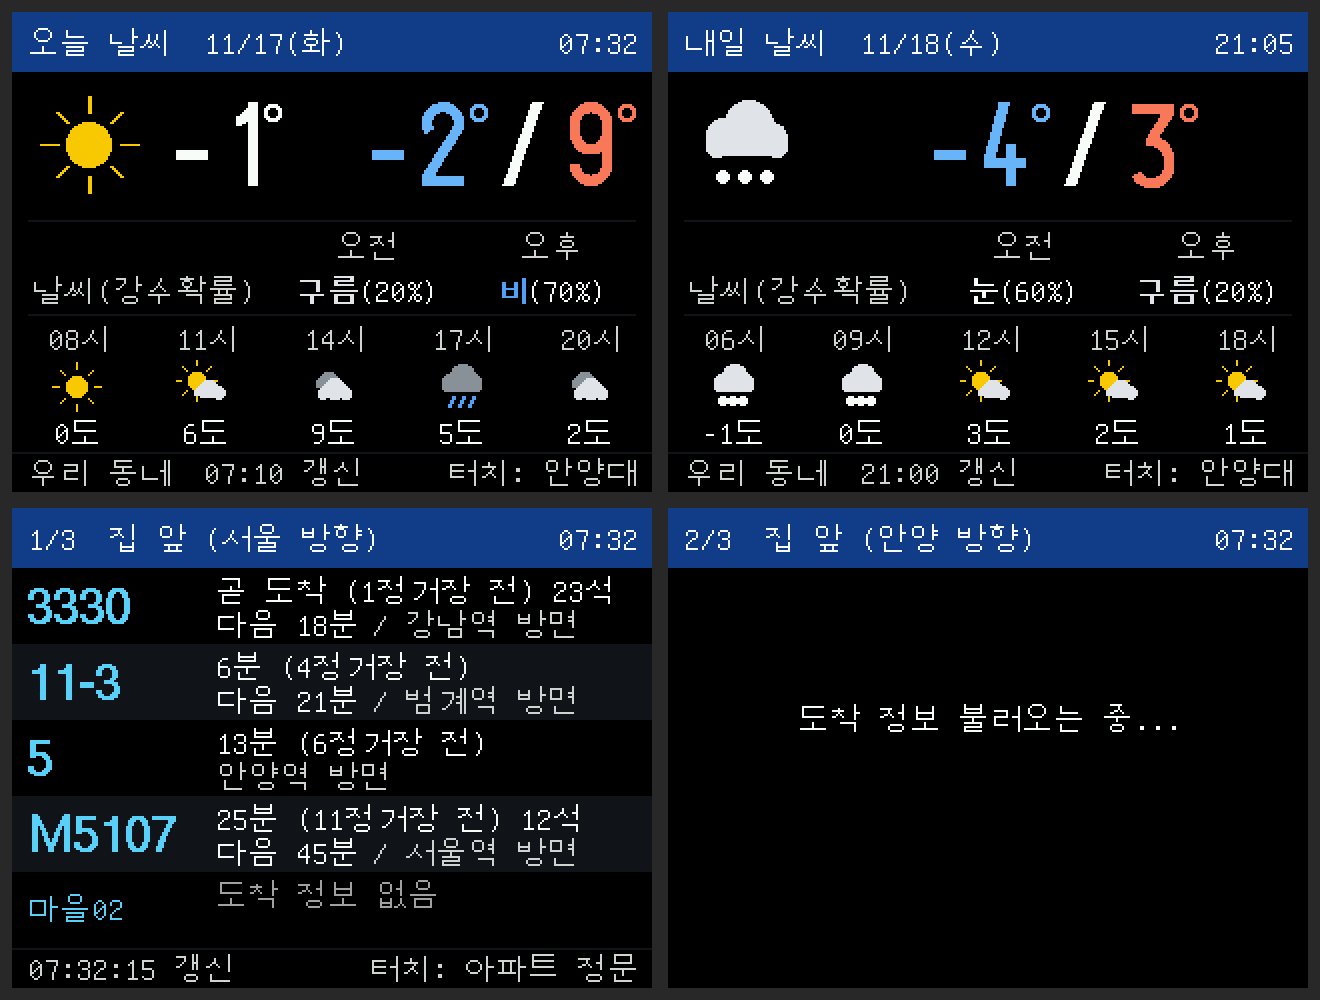
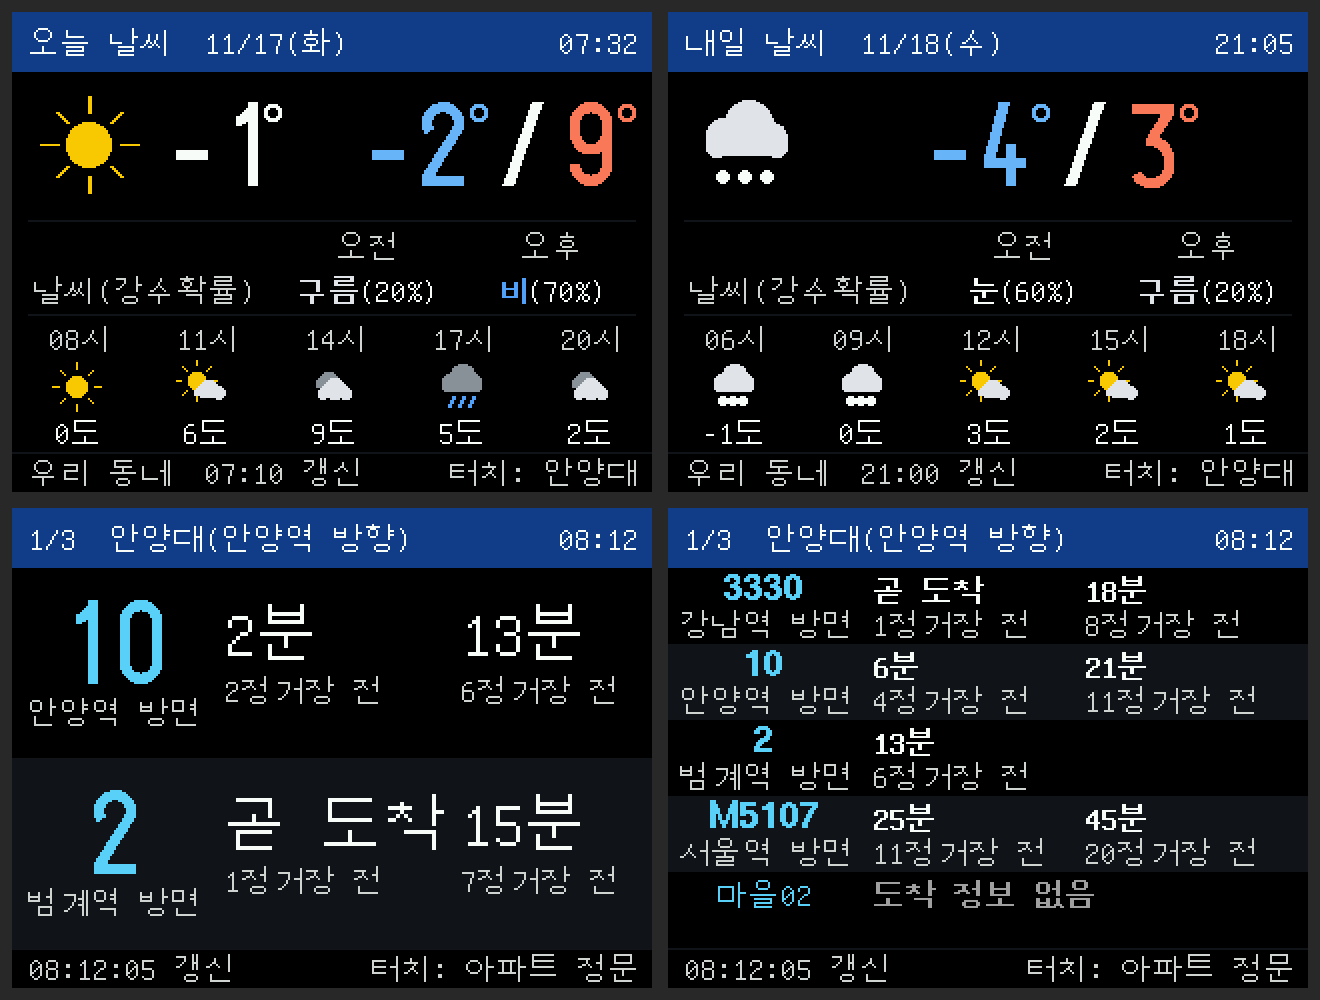
버스 화면: 이번/다음 버스를 옆으로 나란히, 노선 번호 가운데 정렬, 연결 실패 시 다시 시도
- 노선 번호를 왼쪽 칸 가운데에 맞추고 그 아래에 방면을 작게
- '2분  13분' / '2정거장 전  6정거장 전' 처럼 두 버스를 같은 칸 위치에 나란히
- 서버 연결 자체가 실패하면 0.5초 뒤 한 번 더 요청
- 첫 정보를 못 받았으면 5초 뒤 다시 받기

Claude-Session: https://claude.ai/code/session_01JmD3neNDVVxj1jPjcyheg5

diff --git a/esp32-bus-display/BusArrivalDisplay/display.cpp b/esp32-bus-display/BusArrivalDisplay/display.cpp
@@ -288,113 +288,187 @@ static RowLayout layoutFor(int count) {
   return {1, body, true};  // 1대면 화면 전체를 한 줄로
 }
 
-static const int16_t BIG_ROUTE_W = 118;  // 큰 배치에서 왼쪽 노선 번호 칸
-static const int16_t BIG_TEXT_X = BIG_ROUTE_W + 8;
-static const int16_t BIG_TEXT_W = W - BIG_TEXT_X - 6;
+static const int16_t BIG_ROUTE_W = 100;  // 큰 배치에서 왼쪽 노선 번호 칸
+static const int16_t BIG_TEXT_X = BIG_ROUTE_W + 6;
+static const int16_t BIG_TEXT_W = W - BIG_TEXT_X - 4;
 
-static void drawRouteName(int16_t y0, int16_t h, bool big, const char* name) {
-  const int16_t colW = big ? BIG_ROUTE_W : ROUTE_W;
-  if (!isAscii(name)) {
-    // 한글이 들어간 노선 번호 (예: "마을02")
-    if (big && bigWidth(name) <= colW - 8) {
-      drawBig(8, y0 + (h + bigAscent()) / 2, name, C_ROUTE);
-    } else {
-      useFont(FONT_KOREAN);
-      drawClipped(8, y0 + (h + u8f.getFontAscent()) / 2, colW - 8, name, C_ROUTE);
-    }
-    return;
-  }
-  // 영문/숫자 노선 번호: 칸에 들어가는 가장 큰 글꼴
-  // 큰 글꼴부터 한 단계씩 줄여 가며 칸에 맞는 것을 고릅니다.
-  const uint8_t* fonts[] = {FONT_ROUTE_HUGE, FONT_ROUTE_LARGE, FONT_ROUTE_24, FONT_ROUTE_BIG,
-                            FONT_ROUTE_MID};
-  const int count = sizeof(fonts) / sizeof(fonts[0]);
-  int first = !big ? 3 : (h >= 90 ? 0 : 1);
-  for (int i = first; i < count; i++) {
-    useFont(fonts[i]);
-    if (u8f.getUTF8Width(name) <= colW - 8 || i == count - 1) break;
-  }
-  int16_t baseline = y0 + (h + u8f.getFontAscent()) / 2;
-  drawClipped(8, baseline, colW - 8, name, C_ROUTE);
+// 한글 글꼴은 16픽셀 하나뿐이라, 1픽셀 옆에 한 번 더 그려서 굵게 보이게 합니다.
+static void drawBold(int16_t x, int16_t baseline, const char* text, uint16_t color) {
+  drawText(x, baseline, text, color);
+  drawText(x + 1, baseline, text, color);
 }
 
-// "다음 15분" 은 흰색, " / 범계역 방면" 은 회색으로 이어서 씁니다.
-static void drawNextLine(int16_t x, int16_t baseline, int16_t maxW, const char* second,
-                         const char* dest) {
+// 왼쪽 칸: 노선 번호(가운데 정렬)와 그 아래 방면(작게, 회색)
+static void drawRouteName(int16_t y0, int16_t h, bool big, const char* name, const char* dest) {
+  const int16_t colW = big ? BIG_ROUTE_W : ROUTE_W;
+  const int16_t maxW = colW - 6;
+  const bool showDest = dest && dest[0];
+  int16_t nameBase;
+
+  if (!isAscii(name)) {
+    // 한글이 들어간 노선 번호 (예: "마을02")
+    if (big && bigWidth(name) <= maxW) {
+      int16_t w = bigWidth(name);
+      nameBase = showDest ? y0 + (h - 20 + bigAscent()) / 2 : y0 + (h + bigAscent()) / 2;
+      drawBig((colW - w) / 2, nameBase, name, C_ROUTE);
+    } else {
+      useFont(FONT_KOREAN);
+      int16_t w = u8f.getUTF8Width(name);
+      nameBase = big ? (showDest ? y0 + (h - 20 + 14) / 2 : y0 + (h + 14) / 2) : y0 + 17;
+      drawClipped(w < maxW ? (colW - w) / 2 : 3, nameBase, maxW, name, C_ROUTE);
+    }
+  } else {
+    // 영문/숫자 노선 번호: 칸에 들어가는 가장 큰 글꼴
+    // 큰 글꼴부터 한 단계씩 줄여 가며 칸에 맞는 것을 고릅니다.
+    const uint8_t* fonts[] = {FONT_ROUTE_HUGE, FONT_ROUTE_LARGE, FONT_ROUTE_24, FONT_ROUTE_BIG,
+                              FONT_ROUTE_MID};
+    const int count = sizeof(fonts) / sizeof(fonts[0]);
+    // 작은 배치(4대 이상)에서 방면까지 쓰면 노선 번호는 한 단계 작게
+    int first = !big ? (showDest ? 4 : 3) : (h >= 90 ? 0 : 1);
+    for (int i = first; i < count; i++) {
+      useFont(fonts[i]);
+      if (u8f.getUTF8Width(name) <= maxW || i == count - 1) break;
+    }
+    int16_t asc = u8f.getFontAscent();
+    if (!big) {
+      nameBase = showDest ? y0 + 16 : y0 + (h + asc) / 2;
+    } else {
+      nameBase = showDest ? y0 + (h - 20 + asc) / 2 : y0 + (h + asc) / 2;
+    }
+    int16_t w = u8f.getUTF8Width(name);
+    drawClipped(w < maxW ? (colW - w) / 2 : 3, nameBase, maxW, name, C_ROUTE);
+  }
+
+  if (showDest) {
+    useFont(FONT_KOREAN);
+    int16_t w = u8f.getUTF8Width(dest);
+    int16_t destBase = big ? nameBase + 20 : y0 + 34;
+    drawClipped(w < maxW ? (colW - w) / 2 : 3, destBase, maxW, dest, C_TEXT2);
+  }
+}
+
+// 버스 한 대의 칸: "2분" / "3정거장 전" / "23석"
+struct ArrivalCell {
+  char time[32];
+  char stops[24];
+  char seats[12];
+  bus::Urgency urgency;
+};
+
+static void makeCell(const bus::Arrival& a, uint32_t ageSec, bool isSecond, ArrivalCell& c) {
+  c.time[0] = c.stops[0] = c.seats[0] = '\0';
+  c.urgency = bus::URGENCY_NONE;
+  // 두 번째 버스 정보가 아예 없으면 칸을 비워 둡니다.
+  if (isSecond && a.sec < 0 && !a.note[0]) return;
+  c.urgency = bus::formatMain(a, ageSec, c.time, sizeof(c.time));
+  if (a.sec >= 0 && a.stops > 0) snprintf(c.stops, sizeof(c.stops), "%d정거장 전", a.stops);
+  if (a.sec >= 0 && a.seats >= 0) snprintf(c.seats, sizeof(c.seats), "%d석", a.seats);
+}
+
+static uint16_t cellColor(const ArrivalCell& c) {
+  // 도착 시간은 흰색. 정보가 없을 때만 회색.
+  return c.urgency == bus::URGENCY_NONE ? C_DIM : C_TEXT;
+}
+
+// 정거장 수 (+ 자리가 남으면 빈자리 수). 칸이 좁으면 "전" 을 뺍니다.
+static void drawStops(int16_t x, int16_t baseline, int16_t maxW, const ArrivalCell& c,
+                      bool withSeats) {
   useFont(FONT_KOREAN);
-  int16_t used = 0;
-  if (second[0]) {
-    drawClipped(x, baseline, maxW, second, C_TEXT);
-    used = u8f.getUTF8Width(second);
+  char buf[48];
+  if (withSeats && c.seats[0]) {
+    snprintf(buf, sizeof(buf), "%s%s%s", c.stops, c.stops[0] ? " " : "", c.seats);
+    if (u8f.getUTF8Width(buf) <= maxW) {
+      drawText(x, baseline, buf, C_TEXT2);
+      return;
+    }
   }
-  if (dest[0] && used < maxW - 24) {
-    char buf[64];
-    snprintf(buf, sizeof(buf), "%s%s", second[0] ? " / " : "", dest);
-    drawClipped(x + used, baseline, maxW - used, buf, C_TEXT2);
+  if (!c.stops[0]) return;
+  snprintf(buf, sizeof(buf), "%s", c.stops);
+  if (u8f.getUTF8Width(buf) > maxW) {
+    char* p = strstr(buf, " 전");
+    if (p) *p = '\0';
   }
+  drawClipped(x, baseline, maxW, buf, C_TEXT2);
+}
+
+// 시간 글자를 2배로 쓸 수 있으면 2배, 아니면 보통 크기(굵게). 그린 너비를 돌려줍니다.
+static int16_t drawTime(int16_t x, int16_t baseline, int16_t maxW, const ArrivalCell& c,
+                        bool big) {
+  if (!c.time[0]) return 0;
+  if (big) {
+    int16_t w2 = bigWidth(c.time);
+    if (w2 <= maxW) {
+      drawBig(x, baseline, c.time, cellColor(c));
+      return w2;
+    }
+    baseline -= 8;  // 보통 크기 글자는 2배 글자 높이의 가운데쯤에
+  }
+  useFont(FONT_KOREAN);
+  drawBold(x, baseline, c.time, cellColor(c));
+  return u8f.getUTF8Width(c.time) + 1;
 }
 
 static void drawRow(int index, const RowLayout& lay, const bus::Route* route, uint32_t ageSec) {
-  char mainText[48] = "", detail[48] = "", second[48] = "", first[64] = "";
-  bus::Urgency urgency = bus::URGENCY_NONE;
+  ArrivalCell c0, c1;
   if (route) {
-    if (lay.big) {
-      urgency = bus::formatMain(route->next[0], ageSec, mainText, sizeof(mainText));
-      bus::formatDetail(route->next[0], detail, sizeof(detail));
-    } else {
-      urgency = bus::formatFirst(route->next[0], ageSec, first, sizeof(first));
-    }
-    bus::formatSecond(route->next[1], ageSec, second, sizeof(second));
+    makeCell(route->next[0], ageSec, false, c0);
+    makeCell(route->next[1], ageSec, true, c1);
+  } else {
+    c0.time[0] = c1.time[0] = '\0';
+    c0.stops[0] = c1.stops[0] = c0.seats[0] = c1.seats[0] = '\0';
+    c0.urgency = c1.urgency = bus::URGENCY_NONE;
   }
 
   char key[sizeof(rowCache[0])];
-  snprintf(key, sizeof(key), "%d|%s|%s%s|%s|%s|%d", lay.rows, route ? route->name : "", mainText,
-           first, detail, second, urgency);
+  snprintf(key, sizeof(key), "%d|%.12s|%.20s|%.20s|%.20s|%.20s|%s|%s|%d", lay.rows,
+           route ? route->name : "", c0.time, c1.time, c0.stops, c1.stops, c0.seats, c1.seats,
+           c0.urgency);
   if (!changed(rowCache[index], sizeof(rowCache[index]), key)) return;
 
   const int16_t y0 = HEADER_H + index * lay.h;
   tft.fillRect(0, y0, W, lay.h, (index % 2) ? C_ROW_ALT : C_BG);
   if (!route) return;
 
-  drawRouteName(y0, lay.h, lay.big, route->name);
-  // 도착 시간은 흰색. 정보가 없을 때만 회색.
-  const uint16_t timeColor = urgency == bus::URGENCY_NONE ? C_DIM : C_TEXT;
+  drawRouteName(y0, lay.h, lay.big, route->name, route->dest);
 
+  //  첫 번째 버스      두 번째 버스
+  //  2분               13분
+  //  3정거장 전        6정거장 전
+  const int16_t textX = lay.big ? BIG_TEXT_X : TEXT_X;
+  const int16_t textW = lay.big ? BIG_TEXT_W : TEXT_W;
+  const int16_t right = textX + textW;
+  const int16_t half = textW / 2;
+
+  int16_t timeBase, stopsBase, seatsBase = -1;
   if (!lay.big) {
-    // 4대 이상: 한 줄에 작게
-    useFont(FONT_KOREAN);
-    drawClipped(TEXT_X, y0 + 17, TEXT_W, first, timeColor);
-    drawNextLine(TEXT_X, y0 + 34, TEXT_W, second, route->dest);
-    return;
+    timeBase = y0 + 17;
+    stopsBase = y0 + 34;
+  } else if (lay.h >= 90) {
+    // 2대 또는 1대: 시간 / 정거장 수 / 빈자리 세 줄. 1대면 글자 묶음을 가운데로.
+    const int16_t cy = y0 + (lay.h - 95) / 2;
+    timeBase = cy + 44;
+    stopsBase = cy + 67;
+    seatsBase = cy + 87;
+  } else {
+    // 3대: 시간 / 정거장 수 두 줄
+    timeBase = y0 + 36;
+    stopsBase = y0 + 57;
   }
 
-  // 큰 배치: 도착 시간을 2배 크기로. 줄이 아주 높으면(1대) 글자 묶음을 가운데로.
-  const int16_t cy = lay.h > 95 ? y0 + (lay.h - 95) / 2 : y0;
-  const int16_t mainBase = lay.h >= 90 ? cy + 42 : y0 + 37;
-  int16_t mainW = bigWidth(mainText);
-  if (mainW <= BIG_TEXT_W) {
-    drawBig(BIG_TEXT_X, mainBase, mainText, timeColor);
-  } else {
-    useFont(FONT_KOREAN);
-    mainW = u8f.getUTF8Width(mainText);
-    drawClipped(BIG_TEXT_X, mainBase, BIG_TEXT_W, mainText, timeColor);
-  }
+  // 두 번째 칸은 위아래 줄이 맞도록 같은 자리에서 시작합니다.
+  // (큰 배치는 첫 칸을 조금 넓게: 2배 크기 "곧 도착" 이 들어가도록)
+  int16_t x1 = textX + (lay.big ? 118 : half);
+  int16_t w0 = drawTime(textX, timeBase, x1 - textX - 6, c0, lay.big);
+  if (textX + w0 + 8 > x1) x1 = textX + w0 + 8;
+  drawTime(x1, timeBase, right - x1, c1, lay.big);
 
-  useFont(FONT_KOREAN);
-  const int16_t detailW = detail[0] ? u8f.getUTF8Width(detail) : 0;
-  if (lay.h >= 90) {
-    // 2줄 배치: 시간 / 정거장 수 / 다음 버스와 방면
-    if (detail[0]) drawClipped(BIG_TEXT_X, cy + 64, BIG_TEXT_W, detail, C_TEXT2);
-    drawNextLine(BIG_TEXT_X, cy + 86, BIG_TEXT_W, second, route->dest);
-  } else if (detail[0] && BIG_TEXT_X + mainW + 10 + detailW <= W - 6) {
-    // 3줄 배치: 시간 옆에 정거장 수, 아래에 다음 버스와 방면
-    drawText(BIG_TEXT_X + mainW + 10, mainBase, detail, C_TEXT2);
-    drawNextLine(BIG_TEXT_X, y0 + 57, BIG_TEXT_W, second, route->dest);
-  } else {
-    // 3줄 배치인데 옆에 자리가 없으면: 정거장 수와 다음 버스를 아래 줄에
-    char line[96];
-    snprintf(line, sizeof(line), "%s%s%s", detail, detail[0] && second[0] ? "  " : "", second);
-    drawClipped(BIG_TEXT_X, y0 + 57, BIG_TEXT_W, line, C_TEXT2);
+  const bool seatsInline = seatsBase < 0;  // 빈자리 줄이 따로 없으면 정거장 수 옆에
+  drawStops(textX, stopsBase, x1 - textX - 8, c0, seatsInline);
+  drawStops(x1, stopsBase, right - x1, c1, seatsInline);
+  if (seatsBase >= 0) {
+    useFont(FONT_KOREAN);
+    if (c0.seats[0]) drawText(textX, seatsBase, c0.seats, C_TEXT2);
+    if (c1.seats[0]) drawText(x1, seatsBase, c1.seats, C_TEXT2);
   }
 }
 
@@ -625,11 +699,6 @@ static const int16_t TABLE_COL_W = 90;
 static const int16_t TABLE_HEAD_Y = 123;            // "오전 / 오후" 바닥선
 static const int16_t TABLE_ROW_Y = 145;             // "맑음(0%)" 줄 바닥선
 
-// 한글 글꼴은 16픽셀 하나뿐이라, 1픽셀 옆에 한 번 더 그려서 굵게 보이게 합니다.
-static void drawBold(int16_t x, int16_t baseline, const char* text, uint16_t color) {
-  drawText(x, baseline, text, color);
-  drawText(x + 1, baseline, text, color);
-}
 
 // "맑음(0%)" 한 칸. 칸보다 길면 "구름많음" -> "구름" 처럼 짧은 이름으로.
 static void drawConditionCell(int16_t cx, weather::Condition c, int pop) {

diff --git a/esp32-bus-display/BusArrivalDisplay/bus_fetch.cpp b/esp32-bus-display/BusArrivalDisplay/bus_fetch.cpp
@@ -20,20 +20,23 @@ bool fetchArrivals(const StationConfig& station, bus::Result& out) {
   }
 
   HTTPClient http;
-  bool started = httpBegin(http, url);
-  if (!started) {
-    bus::copyUtf8(out.error, sizeof(out.error), "요청 주소 오류");
-    return false;
-  }
-
-  Serial.printf("[버스] %s (%s) 정보 요청\n", station.label, station.id);
-  int status = http.GET();
-  if (status <= 0) {
+  int status = 0;
+  // 공공데이터포털 서버는 가끔 연결을 받아 주지 않아서, 연결 자체가 실패하면 한 번 더 시도합니다.
+  for (int attempt = 1; attempt <= 2; attempt++) {
+    if (!httpBegin(http, url)) {
+      bus::copyUtf8(out.error, sizeof(out.error), "요청 주소 오류");
+      return false;
+    }
+    Serial.printf("[버스] %s (%s) 정보 요청%s\n", station.label, station.id,
+                  attempt > 1 ? " (다시 시도)" : "");
+    status = http.GET();
+    if (status > 0) break;
     snprintf(out.error, sizeof(out.error), "서버 연결 실패 (%s)",
              http.errorToString(status).c_str());
     http.end();
     Serial.printf("[버스] %s\n", out.error);
-    return false;
+    if (attempt == 2) return false;
+    delay(500);
   }
 
   String body = http.getString();

diff --git a/esp32-bus-display/README.md b/esp32-bus-display/README.md
@@ -4,7 +4,7 @@
 
 기본 구성은 **Raspberry Pi Pico WH + ILI9341 3.2인치 터치 모듈 + 브레드보드**입니다. **납땜이 필요 없습니다.** ESP32 개발보드나 CYD 보드에서도 같은 코드가 동작합니다.
 
-![화면 미리보기: 오늘 날씨, 내일 날씨, 정류장, 불러오는 중](docs/preview.png)
+![화면 미리보기: 오늘 날씨, 내일 날씨, 정류장(버스 2대), 정류장(버스 5대)](docs/preview.png)
 
 *실제 화면 그리기 코드를 PC에서 돌려 만든 미리보기입니다. 왼쪽 위부터 오늘 날씨, 내일 날씨, 정류장 화면(버스 2대: 크게), 정류장 화면(버스 4대 이상: 작게).*
 
@@ -26,6 +26,8 @@
 
 - 정류장 화면에서는 **15초마다** 도착 정보를 새로 받습니다. 그 사이에도 남은 시간은 화면에서 계속 줄어듭니다.
 - 버스가 적으면 글씨를 크게 보여 줍니다. 1대 = 화면 전체, 2대 = 2줄, 3대 = 3줄, 4대 이상 = 5줄(작게, 넘치면 페이지가 넘어감).
+- 한 줄에 노선 번호(아래에 방면)와, 이번 버스·다음 버스를 옆으로 나란히 보여 줍니다. 예: `2분  13분` / `2정거장 전  6정거장 전`
+- 정보를 받다가 서버 연결이 끊기면 바로 한 번 더 시도합니다. 정류장 화면을 처음 열었을 때 실패하면 15초를 기다리지 않고 5초 뒤에 다시 받습니다.
 - 정류장 화면은 **30분** 동안 보여 준 뒤 기본 화면으로 돌아갑니다. 그 시간이 오전이나 저녁이면 날씨가, 그 밖의 시간이면 꺼진 화면이 됩니다.
 - 화면이 꺼져 있을 때 터치하면 바로 정류장 1이 켜집니다.
 - 화면 오른쪽 아래에 터치하면 나올 화면 이름이 보입니다 (예: `터치: 안양대`, `터치: 아파트 정문`). 정류장 이름에서 괄호 앞부분만 씁니다 (`안양대(안양역 방향)` → `안양대`). 줄인 이름이 서로 같으면 원래 이름을 그대로 씁니다.
